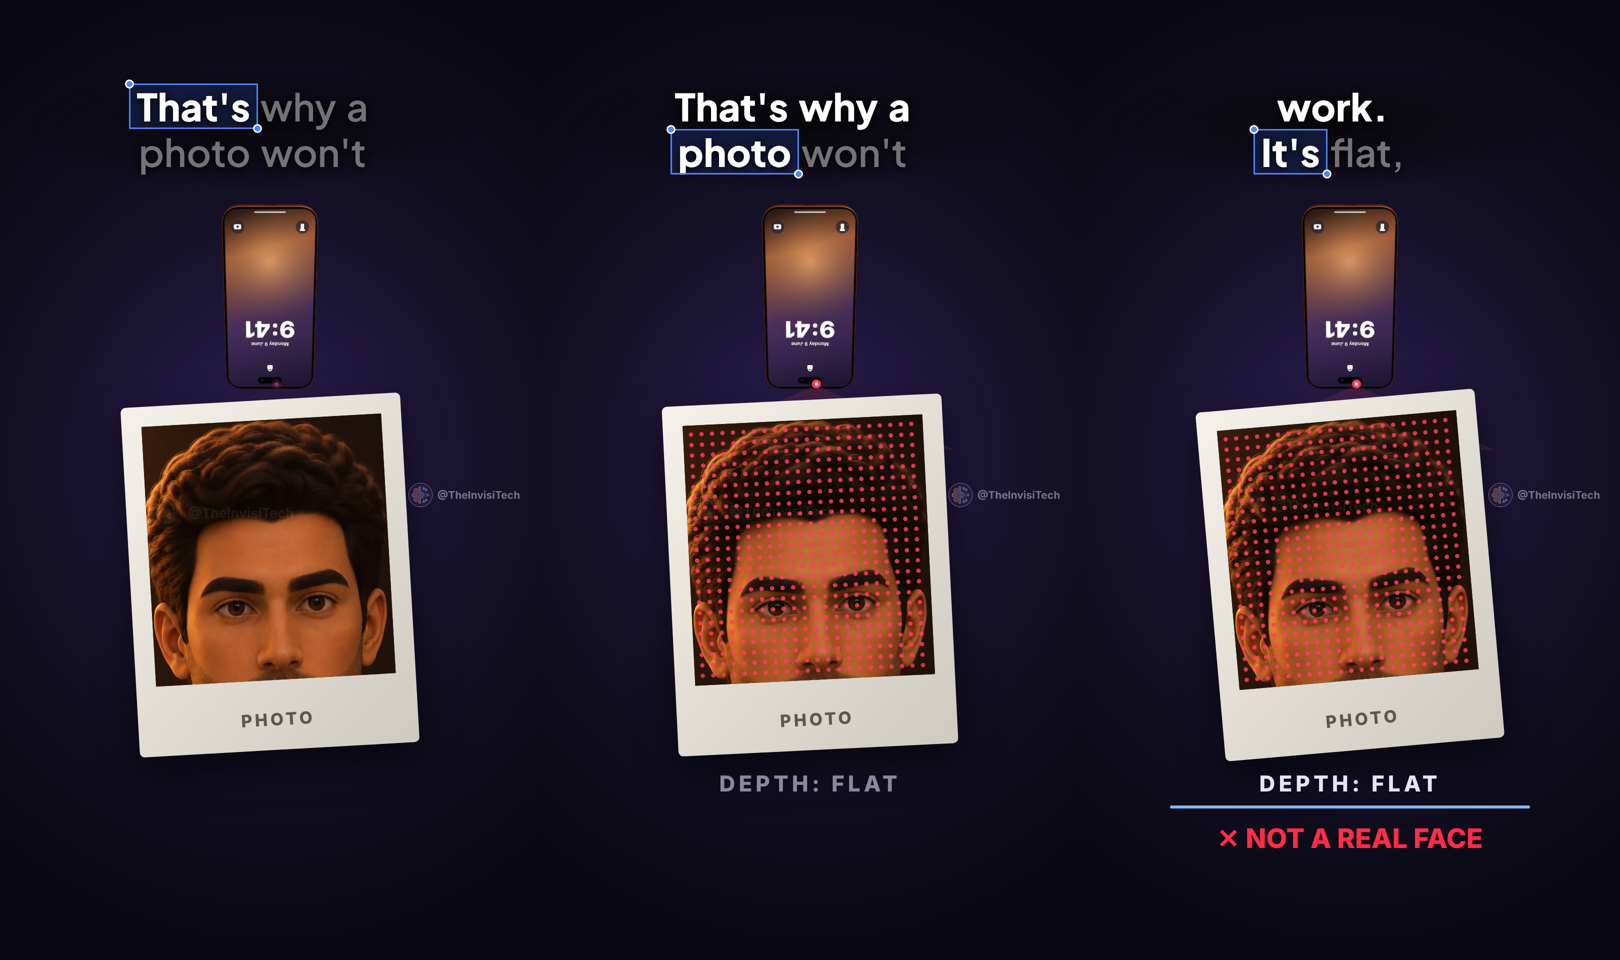
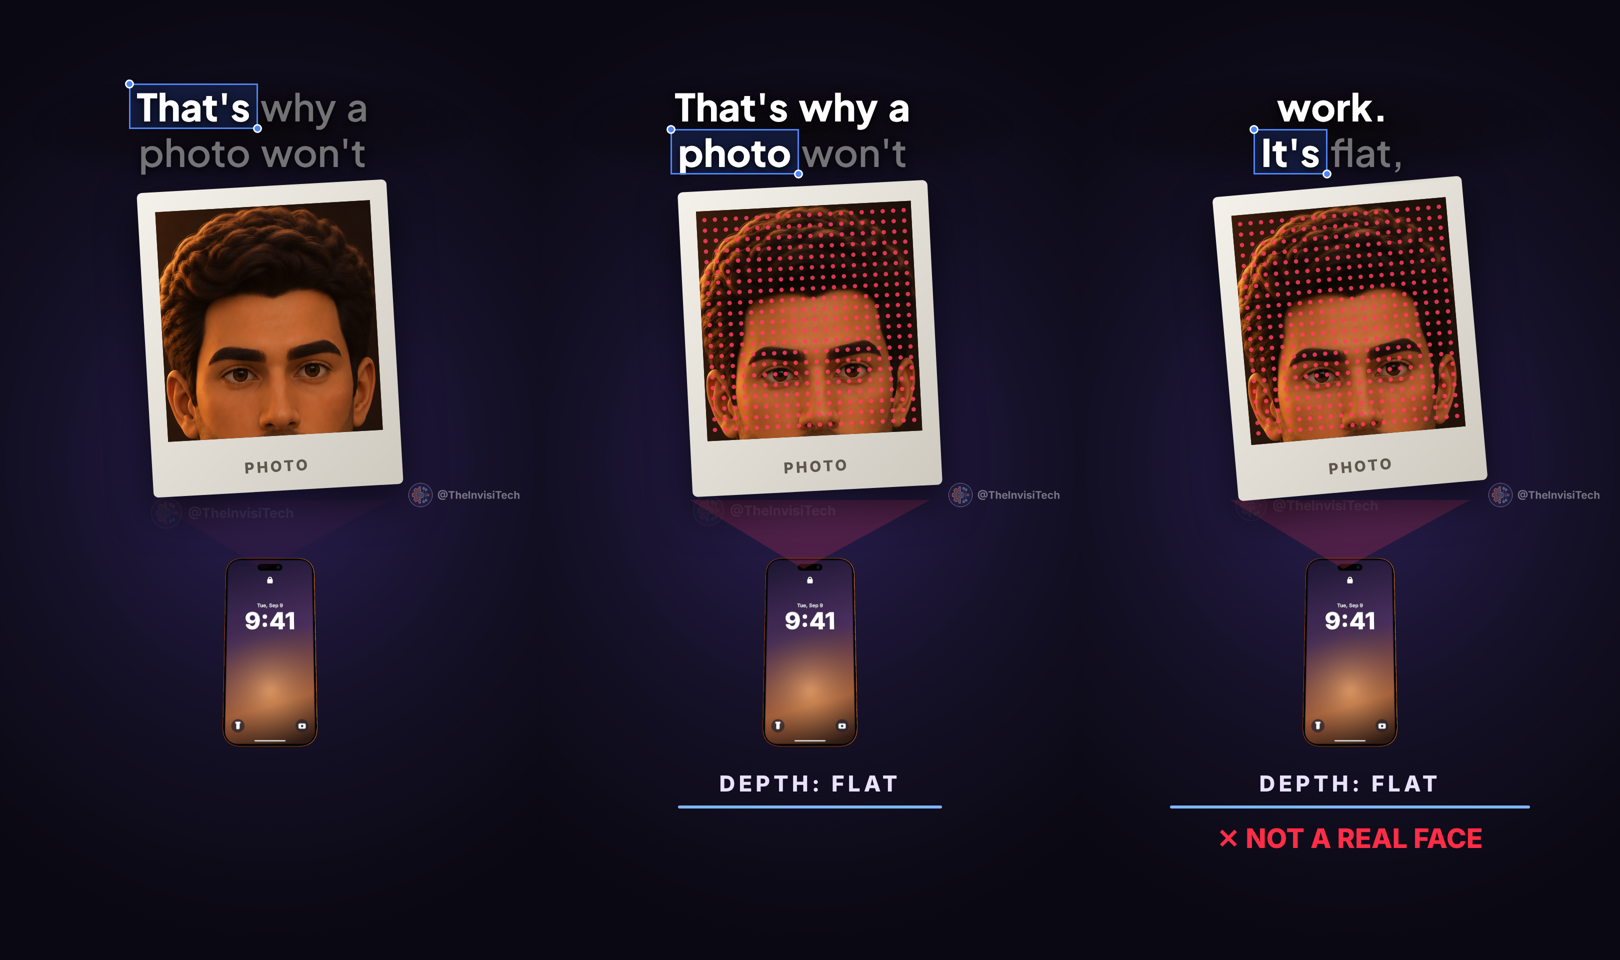
Mirror Short: phone upright below the photo in the photo shot; lock screen date matches the hook
Claude-Session: https://claude.ai/code/session_01GXcKc5WnFrVWBsHLe8YpAy

Changed region(s): [[0.4012, 0.1875, 0.6173, 0.8438], [0.0617, 0.1875, 0.2778, 0.8125], [0.7407, 0.1875, 0.9259, 0.8125]]

diff --git a/face-id/mirror-short/src/scenes/PhotoFlat.tsx b/face-id/mirror-short/src/scenes/PhotoFlat.tsx
@@ -10,7 +10,7 @@ import { C, FONT, ramp } from '../theme';
 // "A photo won't work": a printed photo of his face is held up to the phone. The dots land on it as a perfectly neat grid,
 // because paper is flat, so there is nothing to bend them. t = frames from the cut.
 const out3 = (x: number) => 1 - Math.pow(1 - x, 3);
-const PW = 560, PH = 700, IW = 480, IH = 520;                // print and the picture inside it
+const PW = 500, PH = 610, IW = 430, IH = 460;                // print and the picture inside it
 const DOTS: number[][] = [];
 for (let y = 18; y < IH - 8; y += 21) for (let x = 16; x < IW - 8; x += 21) DOTS.push([x, y]);
 
@@ -21,7 +21,7 @@ const PhoneAbove: React.FC<{ phone: THREE.Object3D }> = ({ phone }) => {
   return (
     <>
       <ambientLight intensity={0.6} /><directionalLight position={[300, 500, 900]} intensity={2} />
-      <group position={[0, -18, 0]} rotation={[0.3, 0, Math.PI]}><Phone3D model={phone} /></group>
+      <group position={[0, -18, 0]} rotation={[-0.22, 0, 0]}><Phone3D model={phone} /></group>
     </>
   );
 };
@@ -31,24 +31,24 @@ export const PhotoFlat: React.FC<{ t: number }> = ({ t }) => {
   const a = ramp(t, 0, 10, 0, 1, out3), fire = ramp(t, 10, 16), no = ramp(t, 44, 50, 0, 1, out3);
   return (
     <AbsoluteFill style={{ background: 'radial-gradient(80% 50% at 50% 48%, #2a1f52 0%, #141026 55%, #0a0812 100%)', overflow: 'hidden' }}>
-      {/* the phone (the same 3D iPhone Pro Max as the dots clip), held above the photo and pointed down at it */}
-      <div style={{ position: 'absolute', left: 0, top: 300, width: 1080, height: 560, opacity: a, transform: `translateY(${-40 * (1 - a)}px)` }}>
+      {/* the phone (the same 3D iPhone Pro Max as the dots clip), held upright below the photo, looking up at it */}
+      <div style={{ position: 'absolute', left: 0, top: 1000, width: 1080, height: 560, opacity: a, transform: `translateY(${40 * (1 - a)}px)` }}>
         <ThreeCanvas width={1080} height={560} flat gl={{ antialias: true, alpha: true }} camera={{ fov: 30, near: 10, far: 4000, position: [0, 0, 929] }}>
           {phone && <PhoneAbove phone={phone} />}
         </ThreeCanvas>
       </div>
       <svg width={1080} height={1920} style={{ position: 'absolute', inset: 0 }}>
-        <path d="M 553 770 L 250 900 H 830 Z" fill={C.ir} opacity={0.16 * fire} /><circle cx={553} cy={768} r={9} fill={C.ir} opacity={fire} /><circle cx={553} cy={768} r={3.5} fill="#fff" opacity={fire} />
+        <path d="M 527 1138 L 300 1000 H 780 Z" fill={C.ir} opacity={0.2 * fire} />
       </svg>
       {/* the print */}
-      <div style={{ position: 'absolute', left: 540 - PW / 2, top: 800, width: PW, height: PH, borderRadius: 10, background: 'linear-gradient(135deg, #f4f1ea, #cfcac0)', boxShadow: '0 30px 80px rgba(0,0,0,.6)', transform: `translateY(${60 * (1 - a)}px) rotate(${-4 + 1.2 * Math.sin(t / 16)}deg)`, opacity: a }}>
+      <div style={{ position: 'absolute', left: 540 - PW / 2, top: 372, width: PW, height: PH, borderRadius: 10, background: 'linear-gradient(135deg, #f4f1ea, #cfcac0)', boxShadow: '0 30px 80px rgba(0,0,0,.6)', transform: `translateY(${-60 * (1 - a)}px) rotate(${-4 + 1.2 * Math.sin(t / 16)}deg)`, opacity: a }}>
         <div style={{ position: 'absolute', left: (PW - IW) / 2, top: 40, width: IW, height: IH, overflow: 'hidden', background: '#2a2018' }}>
-          <Img src={staticFile('face_front.png')} style={{ position: 'absolute', left: -150, top: -235, width: 780, height: 1394 }} />
+          <Img src={staticFile('face_front.png')} style={{ position: 'absolute', left: -134, top: -210, width: 699, height: 1249 }} />
           <svg width={IW} height={IH} style={{ position: 'absolute', inset: 0 }}>
             {DOTS.map(([x, y], i) => { const o = ramp(t, 12 + (y / IH) * 12, 16 + (y / IH) * 12); return o > 0 ? <circle key={i} cx={x} cy={y} r={4.4} fill={C.ir} opacity={0.85 * o} /> : null; })}
           </svg>
         </div>
-        <div style={{ position: 'absolute', left: 0, right: 0, bottom: 44, textAlign: 'center', font: `800 34px/1 ${FONT}`, letterSpacing: '0.16em', color: '#5d574d' }}>PHOTO</div>
+        <div style={{ position: 'absolute', left: 0, right: 0, bottom: 34, textAlign: 'center', font: `800 30px/1 ${FONT}`, letterSpacing: '0.16em', color: '#5d574d' }}>PHOTO</div>
       </div>
       {/* read-out: no depth */}
       <div style={{ position: 'absolute', left: 0, right: 0, top: 1545, textAlign: 'center', opacity: ramp(t, 24, 30) }}>

diff --git a/face-id/mirror-short/src/scenes/Phone3D.tsx b/face-id/mirror-short/src/scenes/Phone3D.tsx
@@ -28,7 +28,7 @@ const lockTexture = () => {
   g.beginPath(); g.roundRect(W / 2 - 22, 176, 44, 36, 8); g.fill();
   g.beginPath(); g.arc(W / 2, 176, 14, Math.PI, 0); g.stroke();
   g.textAlign = 'center';
-  g.font = '600 40px Inter, system-ui, sans-serif'; g.fillStyle = 'rgba(255,255,255,.92)'; g.fillText('Monday 9 June', W / 2, 410);
+  g.font = '600 40px Inter, system-ui, sans-serif'; g.fillStyle = 'rgba(255,255,255,.92)'; g.fillText('Tue, Sep 9', W / 2, 410);
   g.font = '800 190px Inter, system-ui, sans-serif'; g.fillStyle = '#fff'; g.fillText('9:41', W / 2, 590);
   for (const x of [112, W - 112]) { g.fillStyle = 'rgba(40,36,48,.72)'; g.beginPath(); g.arc(x, H - 150, 50, 0, 7); g.fill(); }
   g.fillStyle = '#fff'; g.beginPath(); g.roundRect(100, H - 172, 24, 46, 6); g.fill(); g.beginPath(); g.roundRect(94, H - 180, 36, 14, 4); g.fill();   // flashlight
